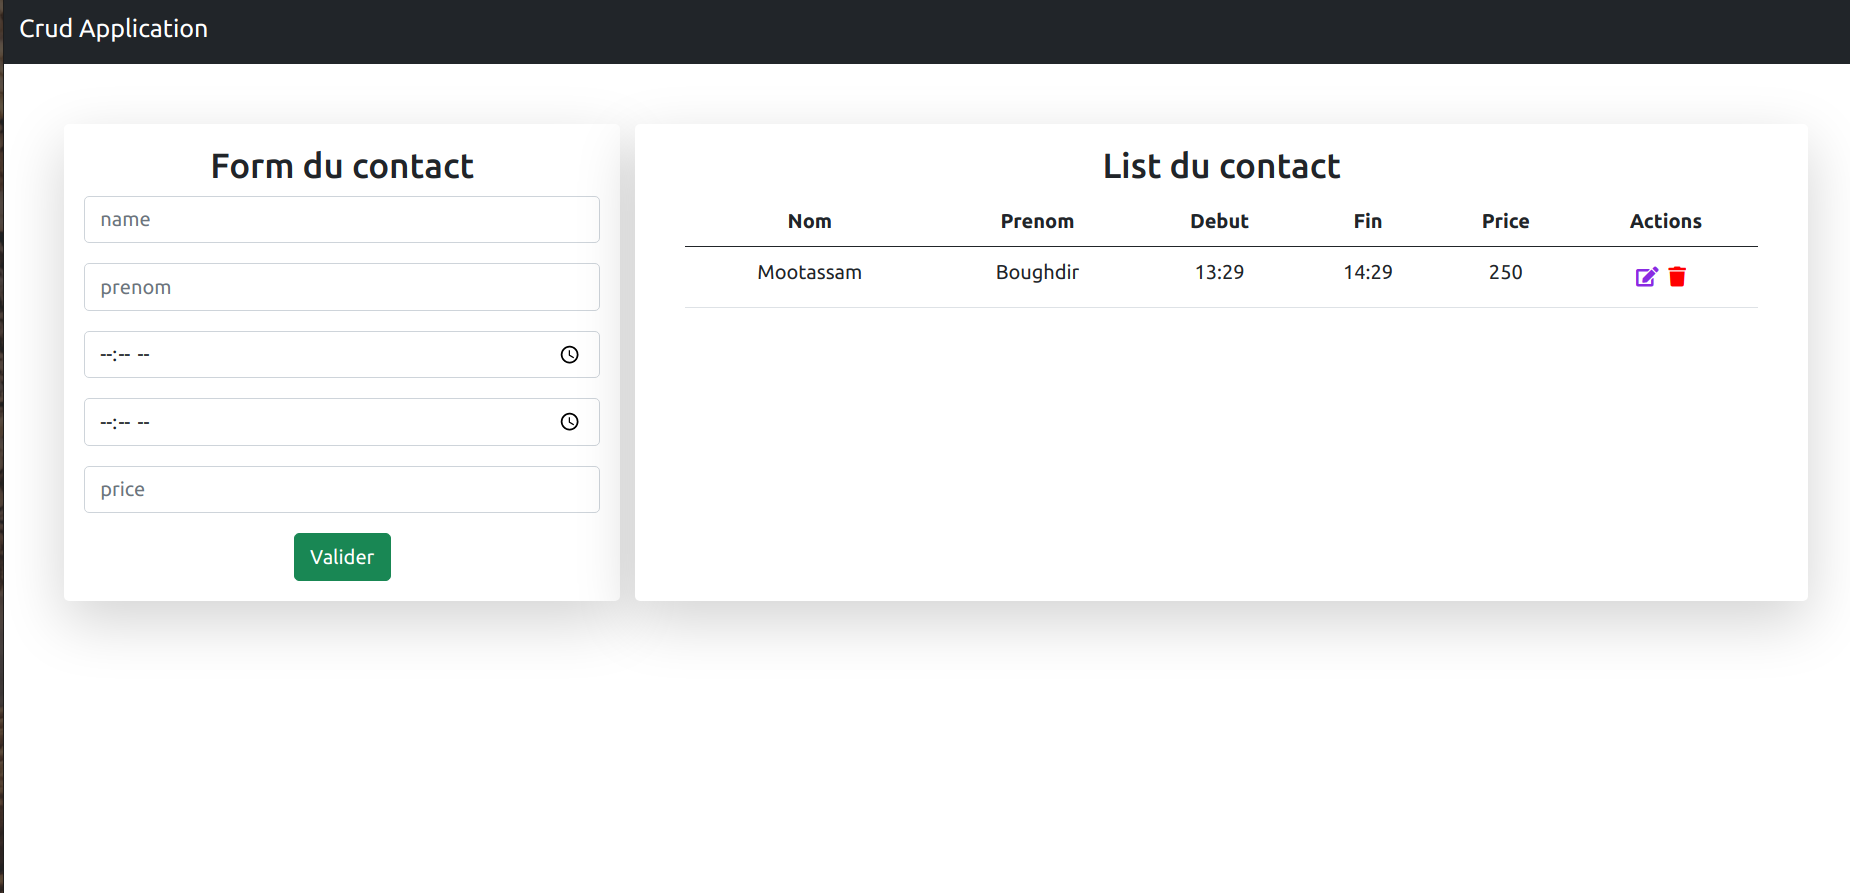
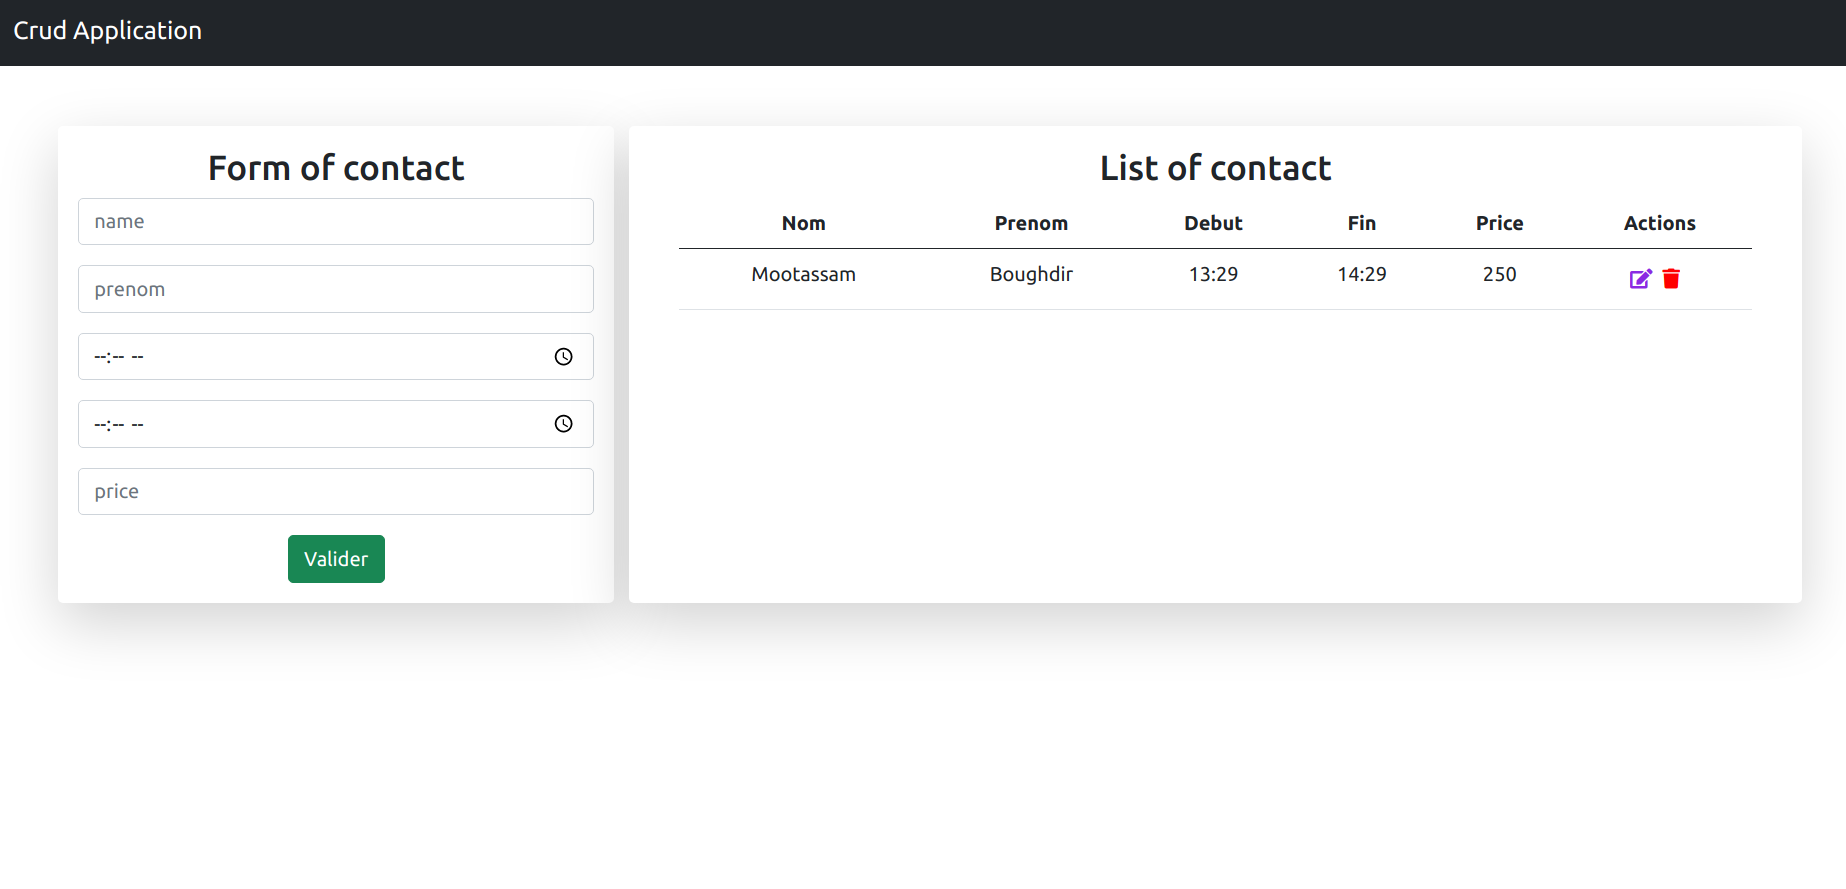
replace image

diff --git a/crud/src/Components/Content.js b/crud/src/Components/Content.js
@@ -20,7 +20,7 @@ export default function Content() {
           <Form {...{ currentId, setCurrentId }} />
         </div>
         <div className="col-md-8 shadow-lg p-3 mb-5 bg-white rounded">
-          <h3> List du contact</h3>
+          <h3> List of contact</h3>
           <div className="container">
             <table className="table">
               <thead>

diff --git a/crud/src/Components/Form.js b/crud/src/Components/Form.js
@@ -40,7 +40,7 @@ export default function Form({ ...props }) {
   return (
     <>
       <div className="container shadow-lg p-3 mb-5 bg-white rounded">
-        <h3> Form du contact</h3>
+        <h3> Form of contact</h3>
         <form onSubmit={Submit}>
           <input
             type="text"
